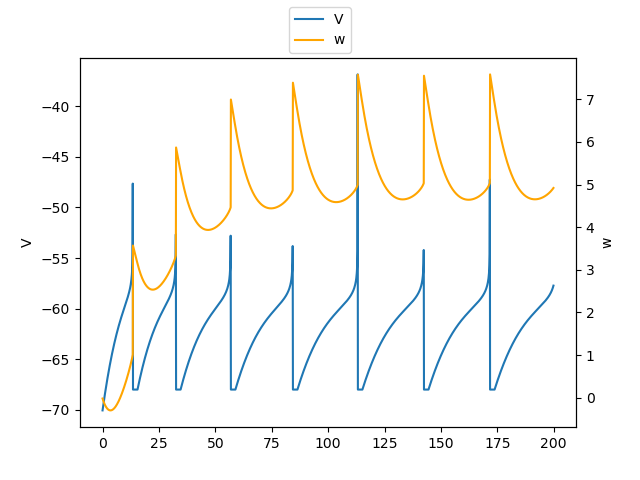
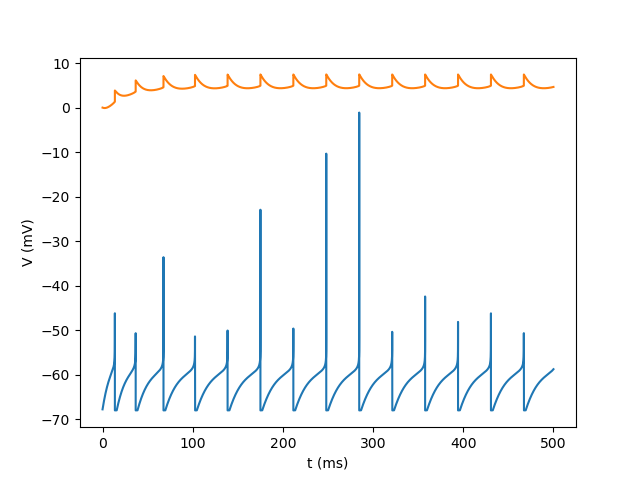
modifications

diff --git a/neuron_models/Izhikevich_model.py b/neuron_models/Izhikevich_model.py
@@ -61,8 +61,8 @@ class Izhikevich(bp.NeuGroup):
 # bp.visualize.line_plot(runner.mon.ts, runner.mon.u, legend='u', show=True)
 
 
-def subplot(i, izhi, title=None, input=('input', 10.), duration=250):
-	plt.subplot(3, 2, i)
+def subplot(i, izhi, title=None, input=('input', 10.), duration=200):
+	plt.subplot(2, 3, i)
 	runner = bp.StructRunner(izhi, monitors=['V', 'u'], inputs=input)
 	runner(duration)
 	bp.visualize.line_plot(runner.mon.ts, runner.mon.V, legend='V', show=False)
@@ -70,18 +70,37 @@ def subplot(i, izhi, title=None, input=('input', 10.), duration=250):
 	plt.title(title)
 
 
-plt.figure(figsize=(12, 12))
-# input5, duration = bp.inputs.section_input(values=[0, 10., 15., 10.],
-#                                            durations=[20, 120, 10, 100],
+plt.figure(figsize=(12, 6))
+# input5, duration = bp.inputs.section_input(values=[-5, 0., 10., 0.],
+#                                            durations=[40, 100, 10, 100],
 #                                            return_length=True)
 
 subplot(1, Izhikevich(1, d=8.), title='Regular Spiking')
-subplot(2, Izhikevich(1, c=-55., d=4.), title='Intrinsically Bursting')
-subplot(3, Izhikevich(1, a=0.1, d=2.), title='Fast Spiking')
-subplot(4, Izhikevich(1, c=-50., d=2.), title='Chattering (Bursting)')
+subplot(2, Izhikevich(1, c=-55., d=4.), title='Intrinsic Bursting')
+subplot(3, Izhikevich(1, a=0.1), title='Fast Spiking')
+subplot(4, Izhikevich(1, c=-50.), title='Chattering (Bursting)')
+
 # subplot(5, Izhikevich(2, a=0.1, b=0.26), title='Resonator', input=('input', input5, 'iter'))
 # subplot(5, Izhikevich(2, a=0.1, b=0.26), title='Resonator', input=('input', 0.))
+input5 = bp.inputs.section_input(values=[-30, 3.5], durations=[50, 150])
+subplot(5, Izhikevich(1, b=0.2), title='Rebound Bursting', input=('input', input5, 'iter'))
+
 subplot(6, Izhikevich(1, b=0.25), title='Low Threshold Spiking')
 
 plt.tight_layout()
+plt.show()
+
+
+import matplotlib.pyplot as plt
+
+# 分段电流：按照时间顺序，电流值为[-30, 3.5]，持续时长为[50, 150]
+input = bp.inputs.section_input(values=[-30, 3.5], durations=[50, 150])
+# 'iter'表示电流是可迭代的而非一个静态值
+runner = bp.StructRunner(Izhikevich(1), monitors=['V', 'u'], inputs=('input', input, 'iter'))
+runner(200)
+
+plt.plot(runner.mon.ts, runner.mon.V, label='V')
+plt.plot(runner.mon.ts, runner.mon.u, label='u')
+plt.xlabel('Time (ms)')
+plt.legend()
 plt.show()

diff --git a/neuron_models/AdEx_model.py b/neuron_models/AdEx_model.py
@@ -3,11 +3,11 @@ import brainpy.math as bm
 import matplotlib.pyplot as plt
 
 
-class AdExIF(bp.NeuGroup):
-  def __init__(self, size, V_rest=-65., V_reset=-68., V_th=-30., V_T=-60., delta_T=1., a=1.,
-               b=2.5, tau=10., tau_w=30., tau_ref=2., R=1., **kwargs):
+class AdEx(bp.dyn.NeuGroup):
+  def __init__(self, size, V_rest=-65., V_reset=-68., V_th=20., V_T=-60., delta_T=1., a=1.,
+               b=2.5, R=1., tau=10., tau_w=30., tau_ref=2., **kwargs):
     # 初始化父类
-    super(AdExIF, self).__init__(size=size, **kwargs)
+    super(AdEx, self).__init__(size=size, **kwargs)
 
     # 初始化参数
     self.V_rest = V_rest
@@ -62,11 +62,18 @@ class AdExIF(bp.NeuGroup):
 
 
 # 运行AdExIF模型
-group = AdExIF(10)
-runner = bp.StructRunner(group, monitors=['V', 'w'], inputs=('input', 11.))
-runner(200)  # 运行时长为200ms
+neu = AdEx(1)
+runner = bp.StructRunner(neu, monitors=['V', 'w'], inputs=('input', 9.), dt=0.01)
+runner(500)
 
-# 使用matplotlib.pyplot绘图
+# 可视化V和w的变化
+plt.plot(runner.mon.ts, runner.mon.V, label='V')
+plt.plot(runner.mon.ts, runner.mon.w, label='w')
+plt.xlabel('t (ms)')
+plt.ylabel('V (mV)')
+
+plt.show()
+
 # fig, ax1 = plt.subplots()
 # ax1.plot(runner.mon.ts, runner.mon.V[:, 0], label='V')
 # ax1.set_ylabel('V')
@@ -74,12 +81,13 @@ runner(200)  # 运行时长为200ms
 # ax2 = ax1.twinx()
 # ax2.plot(runner.mon.ts, runner.mon.w[:, 0], color='orange', label='w')
 # ax2.set_ylabel('w')
-
+#
 # fig.legend(loc="upper center")
 # plt.show()
 
-fig, ax1 = plt.subplots()
-bp.visualize.line_plot(runner.mon.ts, runner.mon.w, ax=ax1, ylabel='w', legend='w', show=False)
 
-ax2 = ax1.twinx()
-bp.visualize.line_plot(runner.mon.ts, runner.mon.V, ax=ax2, ylabel='V', legend='V', show=True)
+# fig, ax1 = plt.subplots()
+# bp.visualize.line_plot(runner.mon.ts, runner.mon.w, ax=ax1, ylabel='w', legend='w', show=False)
+#
+# ax2 = ax1.twinx()
+# bp.visualize.line_plot(runner.mon.ts, runner.mon.V, ax=ax2, ylabel='V', legend='V', show=True)

diff --git a/neuron_models/ExpIF_model.py b/neuron_models/ExpIF_model.py
@@ -3,7 +3,7 @@ import brainpy.math as bm
 import matplotlib.pyplot as plt
 
 
-class ExpIF(bp.NeuGroup):
+class ExpIF(bp.dyn.NeuGroup):
 	def __init__(self, size, V_rest=-65., V_reset=-68., V_th=20., V_T=-60., delta_T=1.,
 	             R=1., tau=10., tau_ref=2., **kwargs):
 		# 初始化父类
@@ -58,4 +58,4 @@ class ExpIF(bp.NeuGroup):
 # plt.xlabel('t (ms)')
 # plt.ylabel('V (mV)')
 
-plt.show()
+# plt.show()

diff --git a/neuron_models/QIF_model.py b/neuron_models/QIF_model.py
@@ -3,7 +3,7 @@ import brainpy.math as bm
 import matplotlib.pyplot as plt
 
 
-class QIF(bp.NeuGroup):
+class QIF(bp.dyn.NeuGroup):
   def __init__(self, size, V_rest=-65., V_reset=-68., V_th=-0., V_c=-50.0, a_0=.07, R=1., tau=10., t_ref=5., **kwargs):
     # 初始化父类
     super(QIF, self).__init__(size=size, **kwargs)

diff --git a/neuron_models/GIF_model.py b/neuron_models/GIF_model.py
@@ -2,7 +2,7 @@ import brainpy as bp
 import brainpy.math as bm
 
 
-class GIF(bp.NeuGroup):
+class GIF(bp.dyn.NeuGroup):
 	def __init__(self, size, V_rest=-70., V_reset=-70., V_th_inf=-50., V_th_reset=-60.,
 	             R=20., tau=20., a=0., b=0.01, k1=0.2, k2=0.02, R1=0., R2=1., A1=0.,
 	             A2=0., **kwargs):

diff --git a/neuron_models/LIF_model.py b/neuron_models/LIF_model.py
@@ -3,7 +3,7 @@ import brainpy.math as bm
 import matplotlib.pyplot as plt
 
 
-class LIF(bp.NeuGroup):
+class LIF(bp.dyn.NeuGroup):
   def __init__(self, size, V_rest=0., V_reset=-5., V_th=20., R=1., tau=10., t_ref=5., **kwargs):
     # 初始化父类
     super(LIF, self).__init__(size=size, **kwargs)

diff --git a/neuron_models/HindmarshRose_model.py b/neuron_models/HindmarshRose_model.py
@@ -3,7 +3,7 @@ import brainpy.math as bm
 import matplotlib.pyplot as plt
 
 
-class HindmarshRose(bp.NeuGroup):
+class HindmarshRose(bp.dyn.NeuGroup):
 	def __init__(self, size, a=1., b=3., c=1., d=5., r=0.002, s=4., V_rest=-1.6,
 	             V_th=1.0, **kwargs):
 		# 初始化父类

diff --git a/neuron_models/theta_model.py b/neuron_models/theta_model.py
@@ -3,7 +3,7 @@ import brainpy.math as bm
 import matplotlib.pyplot as plt
 
 
-class Theta(bp.NeuGroup):
+class Theta(bp.dyn.NeuGroup):
 	def __init__(self, size, b=0., c=0., t_ref=0., **kwargs):
 		# 初始化父类
 		super(Theta, self).__init__(size=size, **kwargs)
